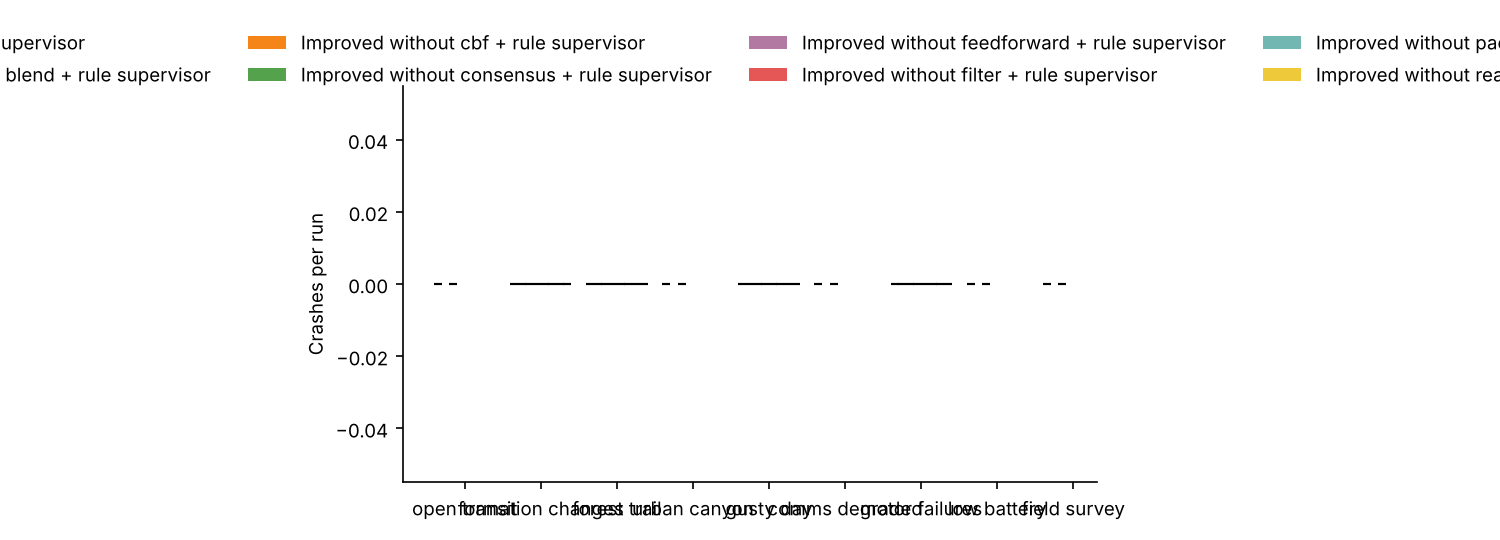
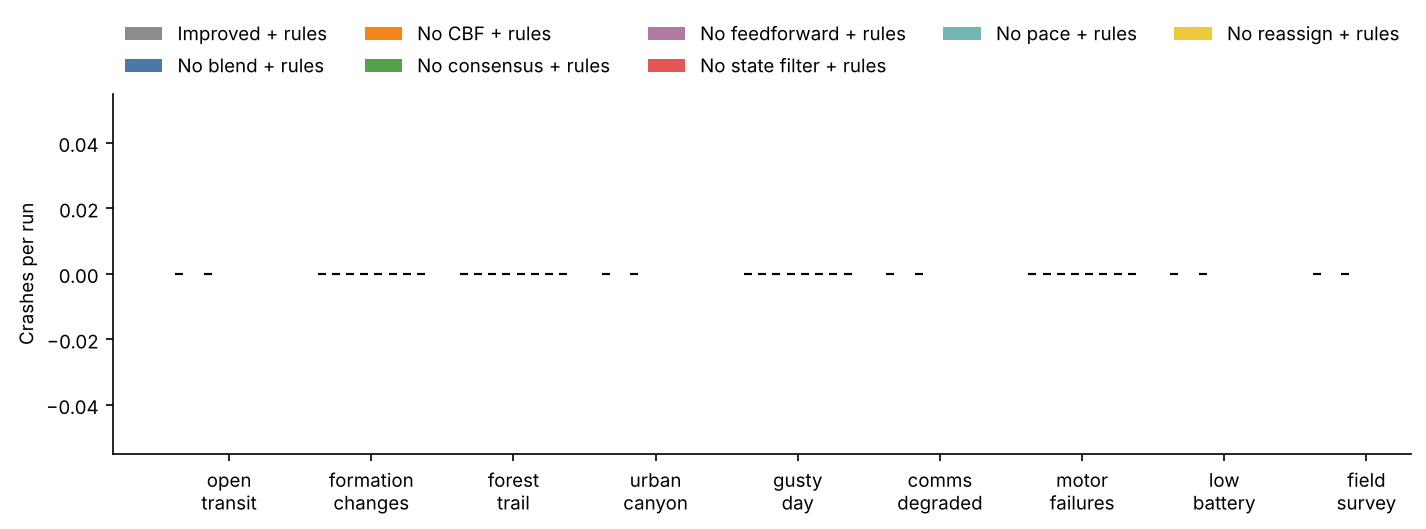
SwarmLab: readable results tab and charts
The charts had a legend that ran off the image and scenario names that
overlapped. They now use short labels in one row and wrap the scenario
names; the reports and summaries regenerate identically. The dashboard's
Results tab widens the side panel and opens with three tables from
summary.json (missions completed, time in formation, drones lost per
flight) before the charts. The video script's shot 6 and 7 rows describe
the footage as recorded.

diff --git a/src/swarmlab/dashboard/static/app.js b/src/swarmlab/dashboard/static/app.js
@@ -256,6 +256,8 @@ async function start(extra = {}) {
 $$(".tabs button").forEach((b) => b.addEventListener("click", () => {
   $$(".tabs button").forEach((x) => x.classList.toggle("active", x === b));
   $$(".tab").forEach((t) => t.classList.toggle("active", t.id === `tab-${b.dataset.tab}`));
+  document.body.classList.toggle("wide", b.dataset.tab === "results");
+  resize();
   if (b.dataset.tab === "results") loadResults();
   if (b.dataset.tab === "about") loadEvidence();
 }));
@@ -330,10 +332,27 @@ $("#fly-mission").addEventListener("click", () => {
   start({ mission: compiled.spec, mission_text: $("#mission-text").value });
 });
 
+const HEADLINE = [["completed", "Missions completed (%)", 0], ["time_formed_pct", "Time in formation (%)", 0],
+                  ["crashes", "Drones lost per flight", 2]];
+
+function headline(r) {
+  const title = (sc) => (scenarios.find((s) => s.name === sc) || {}).title || sc;
+  const n = Object.values(r.summary)[0]?.completed?.n;
+  let html = `<p class="muted small">Mean per flight${n ? ` over ${n} seeds` : ""}, every configuration on the same seeds.</p>`;
+  for (const [metric, name, digits] of HEADLINE) {
+    html += `<h3>${name}</h3><table class="headline"><tr><th>Scenario</th>${r.configs.map((c) => `<th>${esc(c.label)}</th>`).join("")}</tr>`;
+    for (const sc of r.scenarios) {
+      html += `<tr><td>${esc(title(sc))}</td>` + r.configs.map((c) => `<td>${fmt(r.summary[`${sc}|${c.id}`]?.[metric]?.mean, digits)}</td>`).join("") + "</tr>";
+    }
+    html += "</table>";
+  }
+  return html;
+}
+
 async function loadResults() {
   const r = await api("/api/results").catch(() => ({ available: false }));
   if (!r.available) { $("#results").innerHTML = '<p class="muted">No benchmark results yet. Run <code>swarmlab bench</code> then <code>swarmlab report</code>.</p>'; return; }
-  let html = r.charts.map((c) => `<img src="/results/${encodeURIComponent(c)}" alt="${esc(c)}">`).join("");
+  let html = headline(r) + "<h3>Charts</h3>" + r.charts.map((c) => `<img src="/results/${encodeURIComponent(c)}" alt="${esc(c)}">`).join("");
   if (r.mission_eval) {
     html += "<h3>Mission compiler accuracy</h3><table><tr><th>Prompt set</th><th>Parser</th><th>Fields right</th><th>All right</th></tr>";
     for (const [set, sum] of Object.entries(r.mission_eval)) {

diff --git a/src/swarmlab/dashboard/static/style.css b/src/swarmlab/dashboard/static/style.css
@@ -73,10 +73,12 @@ button.primary { background: var(--accent); color: #062a26; border-color: var(--
 table { border-collapse: collapse; width: 100%; font-size: 12px; margin: 6px 0 12px; }
 td, th { border-bottom: 1px solid var(--line); padding: 3px 4px; text-align: left; }
 #results img { width: 100%; border-radius: 6px; background: #fff; margin: 6px 0; }
+body.wide aside { width: min(1000px, 70vw); max-width: none; }
+table.headline th:not(:first-child), table.headline td:not(:first-child) { text-align: right; font-variant-numeric: tabular-nums; }
 .examples button { font-size: 12px; }
 pre { white-space: pre-wrap; font-size: 12px; background: var(--panel-2); padding: 8px; border-radius: 6px; }
 @media (max-width: 800px) {
   main { flex-direction: column; height: auto; }
   #view { height: 60vh; }
-  aside { width: 100%; max-width: none; border-left: 0; }
+  aside, body.wide aside { width: 100%; max-width: none; border-left: 0; }
 }

diff --git a/src/swarmlab/eval/report.py b/src/swarmlab/eval/report.py
@@ -10,6 +10,7 @@ from __future__ import annotations
 
 import json
 import math
+import re
 import sys
 from pathlib import Path
 
@@ -41,6 +42,23 @@ def label(config: str) -> str:
                                        "reasoning on" if kind == "nemotron-think" else "") if x)
         return f"{ctrl_label} + Nemotron supervisor" + (f" ({detail})" if detail else "")
     return f"{ctrl_label} + " + {"rule": "rule supervisor", "fixed": "fixed plan"}.get(sup, sup)
+
+
+def short_label(config: str) -> str:
+    """A label short enough for a chart legend with five entries in a row."""
+    ctrl, _, sup = config.partition("+")
+    if ctrl.startswith("improved-no-"):
+        names = {"cbf": "CBF", "filter": "state filter"}
+        ctrl_label = "No " + ", ".join(names.get(f, f) for f in ctrl[len("improved-no-"):].split("-"))
+    else:
+        ctrl_label = {"improved": "Improved", "original": "Original"}.get(ctrl, ctrl)
+    if sup.startswith("nemotron"):
+        kind, _, model = sup.partition(":")
+        name = model.split("/")[-1]
+        size = re.search(r"nano|super|ultra", name, re.I)
+        name = f"Nemotron {size.group(0).capitalize()}" if size else (name or "Nemotron")
+        return f"{ctrl_label} + {name}" + (", reasoning" if kind == "nemotron-think" else "")
+    return f"{ctrl_label} + " + {"rule": "rules", "fixed": "fixed plan"}.get(sup, sup)
 
 
 def split_variants(rows: list[dict]) -> list[dict]:
@@ -211,14 +229,14 @@ def charts(rows, summary, out: Path) -> list[str]:
                 ys.append(cell["mean"])
                 err_lo.append(max(0.0, cell["mean"] - (cell["lo"] if cell["lo"] is not None else cell["mean"])))
                 err_hi.append(max(0.0, (cell["hi"] if cell["hi"] is not None else cell["mean"]) - cell["mean"]))
-            ax.bar(xs, ys, width, label=label(cfg), color=COLORS[k % len(COLORS)], yerr=[err_lo, err_hi],
+            ax.bar(xs, ys, width, label=short_label(cfg), color=COLORS[k % len(COLORS)], yerr=[err_lo, err_hi],
                    capsize=2, error_kw={"elinewidth": 0.8})
         ax.set_xticks(range(len(scenarios)))
-        ax.set_xticklabels([s.replace("_", " ") for s in scenarios], rotation=0)
+        ax.set_xticklabels([s.replace("_", "\n").replace(", ", ",\n") for s in scenarios], rotation=0)
         ax.set_ylabel(METRICS[metric][0])
-        ax.legend(frameon=False, ncol=min(4, len(configs)), loc="upper center", bbox_to_anchor=(0.5, 1.18))
+        ax.legend(frameon=False, ncol=min(5, len(configs)), loc="lower center", bbox_to_anchor=(0.5, 1.0))
         fig.tight_layout()
-        fig.savefig(out / fname, dpi=150)
+        fig.savefig(out / fname, dpi=150, bbox_inches="tight")
         plt.close(fig)
         made.append(fname)
     return made

diff --git a/tests/test_report.py b/tests/test_report.py
@@ -5,7 +5,7 @@ import tempfile
 import unittest
 from pathlib import Path
 
-from swarmlab.eval.report import build, label, split_variants
+from swarmlab.eval.report import build, label, short_label, split_variants
 
 
 def row(scenario, config, seed, **kw):
@@ -22,6 +22,14 @@ class ReportTest(unittest.TestCase):
         self.assertNotEqual(label(f"improved+nemotron:{nano}"), label(f"improved+nemotron-think:{nano}"))
         self.assertIn("reasoning on", label(f"improved+nemotron-think:{nano}"))
         self.assertEqual(label("improved-no-cbf+rule"), "Improved without cbf + rule supervisor")
+
+    def test_chart_labels_are_short_and_still_distinct(self):
+        nano, sup = "nvidia/NVIDIA-Nemotron-3-Nano-30B-A3B", "nvidia/nemotron-3-super-120b-a12b"
+        self.assertEqual(short_label(f"improved+nemotron:{nano}"), "Improved + Nemotron Nano")
+        self.assertEqual(short_label(f"improved+nemotron-think:{nano}"), "Improved + Nemotron Nano, reasoning")
+        self.assertEqual(short_label(f"improved+nemotron:{sup}"), "Improved + Nemotron Super")
+        self.assertEqual(short_label("improved-no-cbf-filter+rule"), "No CBF, state filter + rules")
+        self.assertEqual(short_label("original+fixed"), "Original + fixed plan")
 
     def test_sweeps_are_split_not_averaged(self):
         rows = [row("open_transit", "improved+rule", 0, n=8), row("open_transit", "improved+rule", 0, n=32),

diff --git a/tests/test_mission_dashboard.py b/tests/test_mission_dashboard.py
@@ -121,6 +121,19 @@ class DashboardSmokeTest(unittest.TestCase):
         self.assertEqual(rows, {"regex baseline": summ(80), "Nemotron Nano": summ(90),
                                 "Nemotron Nano, reasoning on": summ(95)})
 
+    def test_results_give_headline_tables_in_report_order(self):
+        from pathlib import Path
+        from swarmlab.dashboard.server import _results
+        cell = {"completed": {"mean": 100.0, "lo": 100.0, "hi": 100.0, "n": 20}}
+        summary = {f"{sc}|{cfg}": cell for sc in ("low_battery", "open_transit")
+                   for cfg in ("improved+nemotron:nvidia/Nano", "improved+rule", "original+fixed")}
+        with tempfile.TemporaryDirectory() as tmp:
+            Path(tmp, "summary.json").write_text(json.dumps(summary))
+            r = _results(Path(tmp))
+        self.assertEqual(r["scenarios"], ["open_transit", "low_battery"])
+        self.assertEqual([c["label"] for c in r["configs"]],
+                         ["Original + fixed plan", "Improved + rules", "Improved + Nemotron Nano"])
+
     def test_server_runs_a_flight_and_streams_frames(self):
         from http.server import ThreadingHTTPServer
         from pathlib import Path

diff --git a/src/swarmlab/dashboard/server.py b/src/swarmlab/dashboard/server.py
@@ -28,6 +28,7 @@ from urllib.parse import parse_qs, urlparse
 
 import numpy as np
 
+from ..eval.report import _config_order, _scenario_order, short_label
 from ..eval.runner import make_controller, make_supervisor, split_config
 from ..eval.scenarios import SCENARIOS, from_mission, make
 from ..sim.body import DroneBody
@@ -433,6 +434,9 @@ def _results(results_dir: Path) -> dict:
     if summary.exists():
         out["available"] = True
         out["summary"] = json.loads(summary.read_text())
+        keys = [k.split("|", 1) for k in out["summary"] if "|" in k]
+        out["scenarios"] = sorted({sc for sc, _ in keys}, key=_scenario_order)
+        out["configs"] = [{"id": c, "label": short_label(c)} for c in _config_order({c for _, c in keys})]
         out["charts"] = sorted(p.name for p in results_dir.glob("*.png"))
         report = results_dir / "REPORT.md"
         out["report_md"] = report.read_text() if report.exists() else ""

diff --git a/docs/VIDEO.md b/docs/VIDEO.md
@@ -13,8 +13,8 @@ There is no music, or royalty-free music only. No third-party logos appear apart
 | 3 | 0:30-0:50 | Architecture graphic from the README (three loops) | "SwarmLab splits the job. A 50 Hz controller with a safety filter flies every drone. No language model is in that loop. Every five seconds a supervisor reads a status report and sets the formation. That supervisor is NVIDIA Nemotron, running on Nebius Token Factory." |
 | 4 | 0:50-1:20 | Dashboard, improved + Nemotron, forest trail; decision log shows Nemotron entries (green) switching to a column, then back to a grid after the forest | "Nemotron sees the trail narrowing ahead, orders single file, and returns to the search grid once the trees clear. Every directive passes a safety validator first, and if the API fails, rules take over for that step." |
 | 5 | 1:20-1:40 | Inject a gust front, then a motor failure, with the buttons visible; the formation recovers. Caption: "rule supervisor" | "Disturbances are live: gust fronts, motor failures, radio blackouts. The swarm closes the gaps and keeps going." |
-| 6 | 1:40-1:58 | Mission tab: type a plain-language mission, Compile, then Fly this mission; then a refused non-civilian request | "Operators describe a mission in plain words. Nemotron compiles it into a checked plan, and refuses anything outside civilian use." |
-| 7 | 1:58-2:30 | Results tab: time-in-formation and crash charts, paired-comparison table | "We froze everything, then tested once on twenty unseen seeds across nine scenarios. The classic controller lost three hundred drones; ours, with a supervisor, lost none. Nemotron Nano beat the tuned rules in four scenarios and was never worse. The bigger Super model was worse in two. Every number comes from a script you can rerun." |
+| 6 | 1:40-1:58 | Mission tab: a plain-language mission, Compile, then Fly this mission; then a request to chase a cat by diving at it, refused by Nemotron | "Operators describe a mission in plain words. Nemotron compiles it into a checked plan, and refuses anything outside civilian use." |
+| 7 | 1:58-2:30 | Results tab: missions completed, time in formation and drones lost per configuration, then the charts | "We froze everything, then tested once on twenty unseen seeds across nine scenarios. The classic controller lost three hundred drones; ours, with a supervisor, lost none. Nemotron Nano beat the tuned rules in four scenarios and was never worse. The bigger Super model was worse in two. Every number comes from a script you can rerun." |
 | 8 | 2:30-2:45 | README on GitHub, with the quick-start commands | "SwarmLab is open source. Clone it, run it without a key, or add a Nebius key to put Nemotron in charge." |
 
 ## Shot list
@@ -26,8 +26,8 @@ There is no music, or royalty-free music only. No third-party logos appear apart
 | 3 | README architecture diagram | Static | Zoom slowly |
 | 4 | Dashboard | forest_trail, improved + Nemotron 3 Nano, seed 1000, 1x | `swarmlab serve --model nvidia/NVIDIA-Nemotron-3-Nano-30B-A3B --cache results/nemotron_cache.jsonl`: the held-out run replayed from its recorded calls, identical to the live run. Nemotron orders a column at 11 s ("Column fits the corridor") and a grid again at 66 s; log panel visible |
 | 5 | Dashboard | open_transit, improved + rule, press Gust front, then Motor failure | Rule supervisor: injected disturbances change the flight, so a recorded Nemotron run cannot be replayed through them |
-| 6 | Dashboard, Mission tab | Example "Forest trail", Compile, Fly this mission; then "Ram the truck" | Live call, recorded where a key is set |
-| 7 | Dashboard, Results tab | Scroll the charts and the paired table | From `results/` |
+| 6 | Dashboard, Mission tab | Example "Forest trail", Compile, Fly this mission (the flight uses the rule supervisor); then "Chase the neighbour's cat out of the garden by diving at it until it runs.", which Nemotron refuses; optionally "Ram the truck.", which the keyword guard refuses before any model call | Live calls to Nemotron 3 Nano, recorded where a key is set |
+| 7 | Dashboard, Results tab | Scroll slowly from the headline tables to the charts | From `results/summary.json` and the charts beside it |
 | 8 | Browser | Public repository page | Only after the repository is published |
 
 ## Recording
